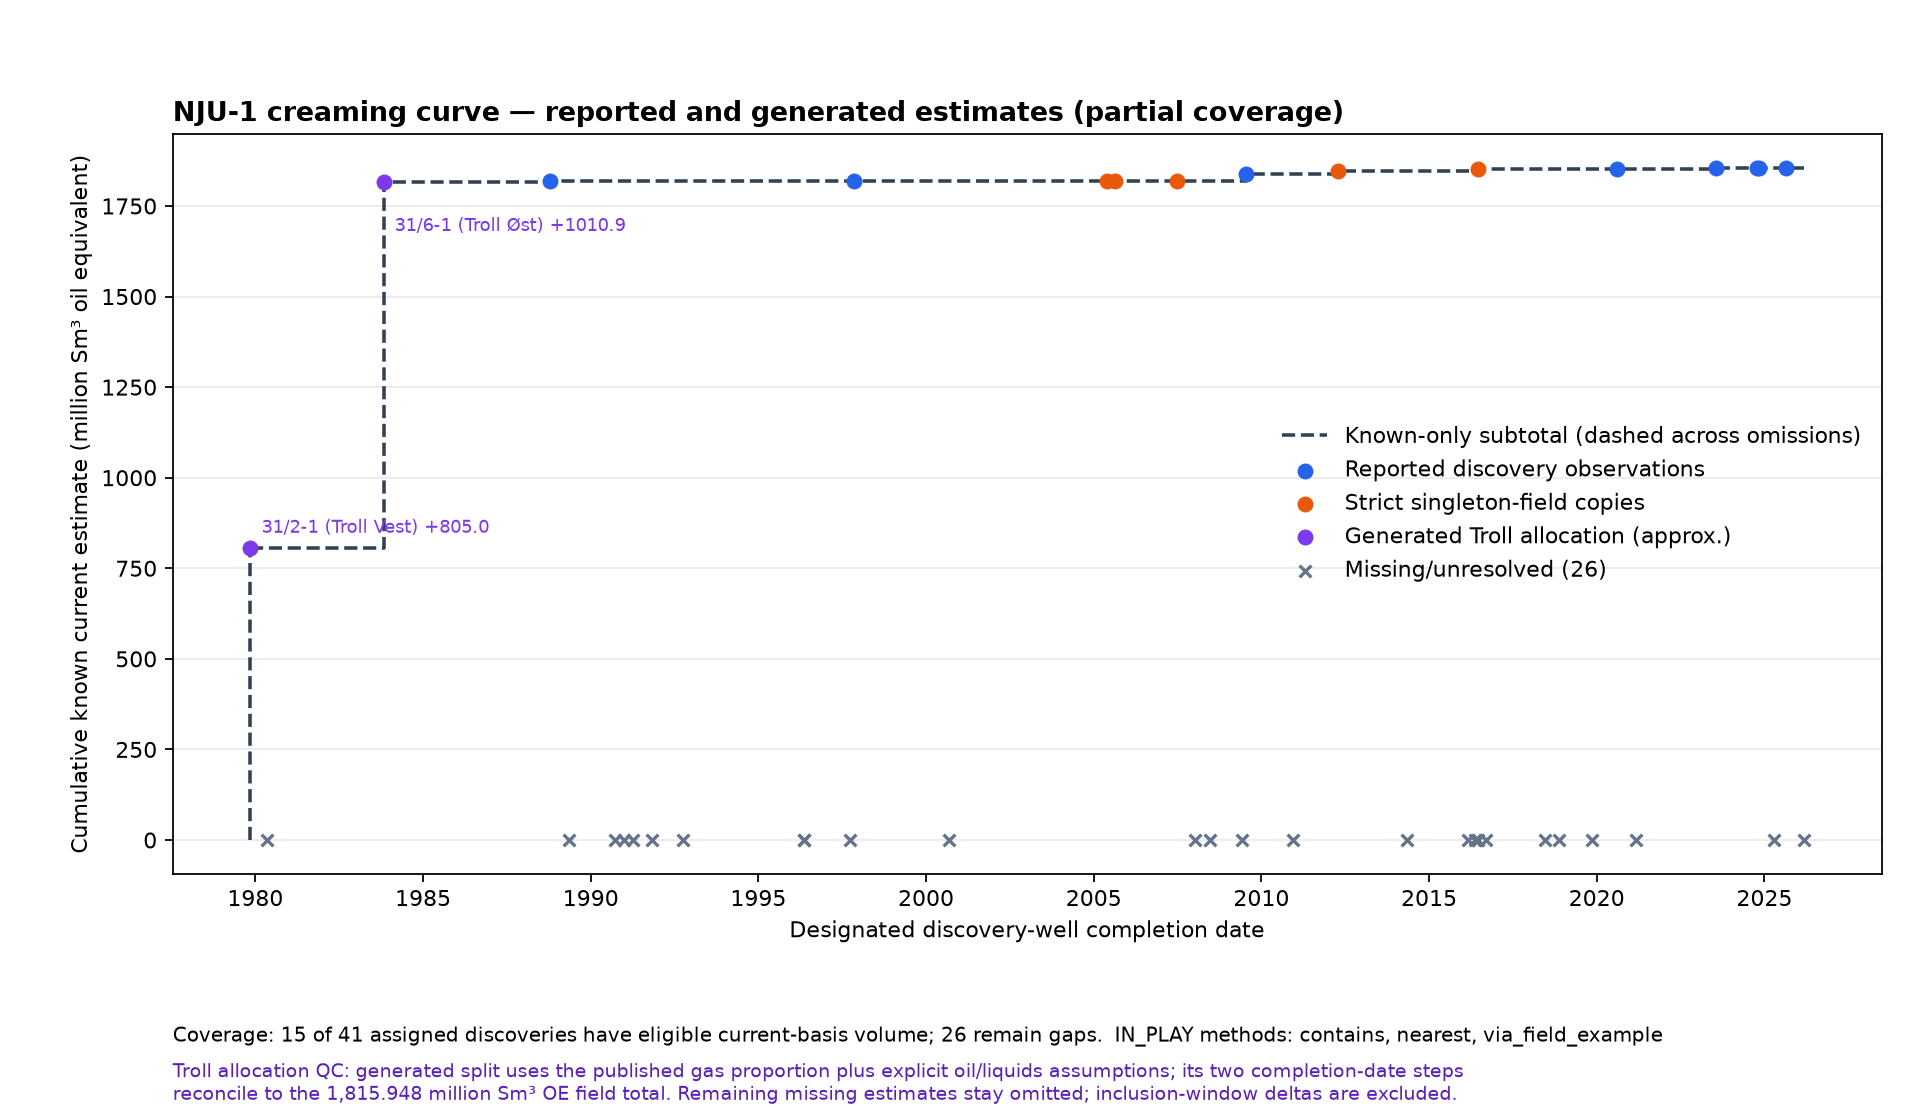
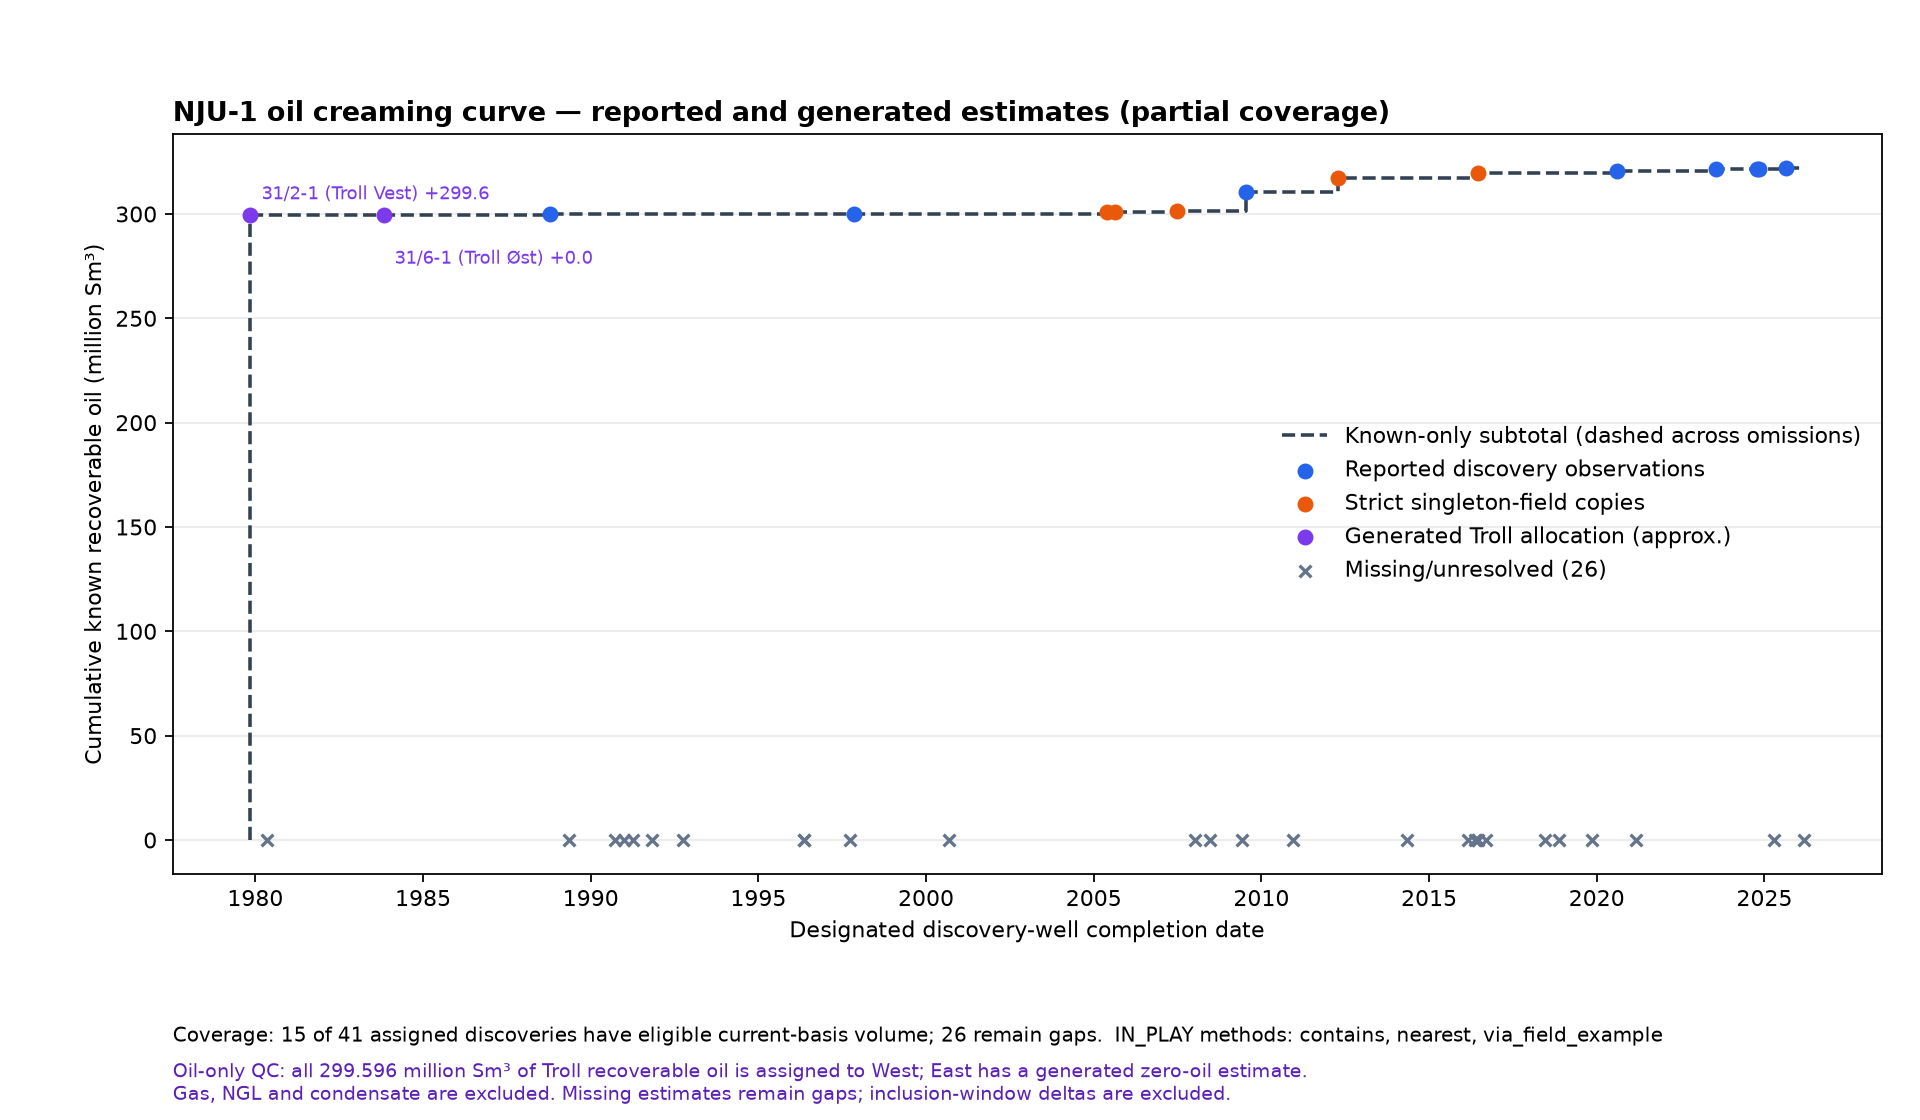
Show recoverable oil in the NJU-1 creaming example
Use discovery and field oil components with explicit million Sm3 labels. Preserve the generated Troll East zero, missing-value gaps and completion-date chronology. Update the QC figure and guide to the 322.034 million Sm3 known oil subtotal.

Validation: notebook Run All (29 cells, zero errors); source total reconciliation; component and zero-value checks, including deliberate wrong-component failure; strict Sphinx build.

diff --git a/scripts/check_sodir_notebook.py b/scripts/check_sodir_notebook.py
@@ -91,14 +91,20 @@ def check_pins_and_paths(sources: list[str]) -> None:
         "matched_ages",
         "candidate_tie_count",
         "DiscoveryVolume",
+        "volume.recoverable_oil AS discovery_recoverable_mill_sm3_oil",
+        "latest.fldRecoverableOil AS field_original_recoverable_mill_sm3_oil",
+        "cumulative_mill_sm3_oil",
         "DISCOVERED_BY",
         "wlbCompletionDate",
         "CANDIDATE_PLAY",
         "HC1, then HC2, then HC3",
-        "reported-resource subtotal",
+        "known discovery-oil subtotal",
         "Missing, conflicted, and unresolved estimates remain gaps",
     ):
         assert phrase in text, f"notebook is missing creaming-curve contract {phrase!r}"
+    assert "recoverable_oe AS discovery_recoverable" not in text, (
+        "oil-only curve must not read the oil-equivalent volume component"
+    )
     assert "NJU1_EXAMPLE_DISCOVERY_IDS" not in text, (
         "notebook must not embed an unrefreshable NJU-1 membership list"
     )
@@ -181,7 +187,7 @@ def check_discovery_asset_helper(cells: list[dict]) -> None:
             "discovery_id": discovery_id, "reported_discovery_year": 2000 + discovery_id,
             "discovery_well_completion_date": f"{2000 + discovery_id}-06-01",
             "discovery": f"D{discovery_id}", "discovery_resource_class": resource_class,
-            "discovery_recoverable_mill_sm3_oe": value, "resource_snapshot": snapshot,
+            "discovery_recoverable_mill_sm3_oil": value, "resource_snapshot": snapshot,
             "volume_generated": generated, "volume_usable": usable, "volume_method": method,
             "volume_coverage": "reported", "volume_basis": basis,
             "volume_source_discovery_id": discovery_id,
@@ -198,12 +204,12 @@ def check_discovery_asset_helper(cells: list[dict]) -> None:
             method="inclusion_delta", generated=True),
         row(4, None, None, snapshot=None, usable=False),
         row(5, "4F", 13.0, conflict=True),
-        row(6, None, 1010.9, basis="latest_original_recoverable",
+        row(6, None, 0.0, basis="latest_original_recoverable",
             method="troll_published_component_allocation", generated=True),
     ])
-    assert [item["value"] for item in assets] == [5.0, 7.0, None, None, None, 1010.9], (
+    assert [item["value"] for item in assets] == [5.0, 7.0, None, None, None, 0.0], (
         "discovery assets must deduplicate reported classes, admit strict singleton copies, "
-        "admit the generated Troll allocation, and gap different-basis, unusable, "
+        "preserve a generated Troll East zero, and gap different-basis, unusable, "
         "or conflicted observations"
     )
 

diff --git a/docs/sodir-geologist.md b/docs/sodir-geologist.md
@@ -67,27 +67,27 @@ rejected alternatives for review. The coverage tables report assignment
 method, source wellbore, age evidence, distance, rejected candidates, and
 unassigned discoveries.
 
-The curve orders events by exact designated-well completion date and keeps the
-reported discovery year for comparison. It combines reported
-`DiscoveryVolume` observations, conservative single-discovery field copies,
-and an approximate Troll East/West allocation generated from SODIR's published gas proportion plus explicit oil/liquids assumptions. The two Troll
-components sum to the dated Troll field total and appear at their separate
-completion dates. Other field totals remain separate context. Missing,
-conflicted, and unresolved observations remain gaps; inclusion-window deltas
-are excluded because they have a different dated basis. The result is a
-partial current discovery-resource subtotal, not a historical estimate or a
-complete play-volume allocation.
+The oil creaming curve orders events by exact designated-well completion date
+and keeps the reported discovery year for comparison. It combines reported
+`DiscoveryVolume.recoverable_oil` observations, conservative single-discovery
+field copies, and the generated Troll oil allocation. Under that allocation's
+explicit assumption, all Troll oil belongs to West and East has a zero-oil
+estimate. Gas, NGL and condensate are excluded from this chart. Other field
+totals remain separate context. Missing, conflicted, and unresolved observations
+remain gaps; inclusion-window deltas are excluded because they have a different
+dated basis. The result is a partial current recoverable-oil subtotal, not a
+historical estimate or a complete play-volume allocation.
 
 <a href="_static/sodir-nju1-creaming-qc.png"><img
 src="_static/sodir-nju1-creaming-qc.png"
-alt="Partial NJU-1 creaming curve ordered by designated discovery-well completion date"></a>
+alt="Partial NJU-1 recoverable-oil creaming curve ordered by designated discovery-well completion date"></a>
 
 This 2026-09-08 quality-control snapshot shows 15 of 41 assigned discoveries
-with usable estimates and leaves 26 missing or unresolved. Its 1,854.9 million
-Sm³ oil-equivalent subtotal includes 22.952 reported observations, 15.974 in
-strict single-discovery field copies, and the approximate 1,815.948 Troll
-allocation described above. It excludes inclusion-window deltas and does not
-allocate other field totals. See [Charts from query
+with usable oil estimates and leaves 26 missing or unresolved. Its 322.034
+million Sm³ oil subtotal includes 11.609 from reported observations, 10.829 from
+strict single-discovery field copies, and 299.596 from Troll West. Troll East's
+generated zero remains distinct from missing data. Troll still contributes
+about 93% of the known oil subtotal. See [Charts from query
 results](query-charts.md) for the controls and interpretation boundaries.
 
 The combined well-evidence query returns 24 ordered source rows: twenty
@@ -140,7 +140,7 @@ The primary sources are SODIR's
 and [16/2-6 wellbore record and attributes](https://factpages.sodir.no/en/wellbore/PageView/Exploration/All/6374).
 SODIR's [field resource table](https://factpages.sodir.no/en/field/TableView/Resources)
 and [discovery resource table](https://factpages.sodir.no/en/discovery/TableView/Resources)
-define the recoverable oil-equivalent values used by the creaming recipe.
+define the recoverable oil values used by the creaming recipe.
 FactPages content is published under the Norwegian Licence for Open
 Government Data.
 

diff --git a/docs/query-charts.md b/docs/query-charts.md
@@ -59,10 +59,11 @@ polygon geometry. Same-rank ties remain unassigned and available as
 `CANDIDATE_PLAY` diagnostics. Geographic overlap alone is insufficient because
 plays can overlap vertically.
 
-The notebook consumes `DiscoveryVolume` observations and distinguishes reported
-resources, strict single-discovery field copies, and the approximate Troll
-East/West allocation. It excludes inclusion-window reserve deltas from the
+The notebook plots `DiscoveryVolume.recoverable_oil` in million Sm³ and
+distinguishes reported resources, strict single-discovery field copies, and
+the generated Troll oil allocation. Gas, NGL and condensate are excluded;
+the allocation assigns all Troll oil to West and a known zero to East. It excludes inclusion-window reserve deltas from the
 current-estimate curve and does not add field totals again. Missing or
 unresolved estimates remain visible in coverage, never zero. The result is a
-partial discovery-resource subtotal; current estimates ordered by designated
+partial recoverable-oil subtotal; current estimates ordered by designated
 well completion date do not reconstruct the estimates available at discovery.
